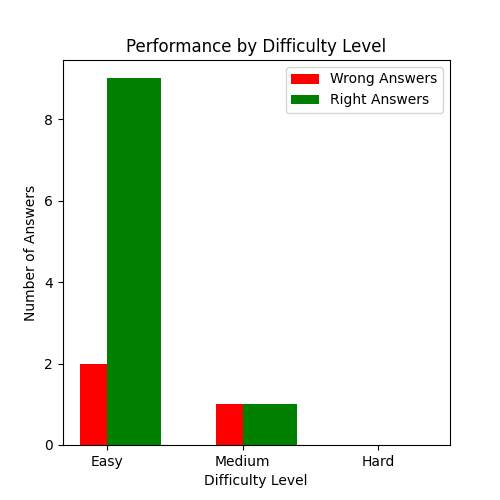
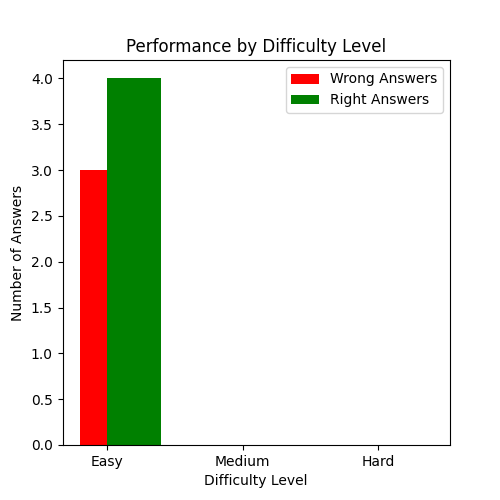
removed unncecessary statements

diff --git a/templates/subject_form.html b/templates/subject_form.html
@@ -85,17 +85,6 @@
      <div class="formclass">
          <h2>Enter Test Name</h2>
          <form action="{{ url_for('submit_subject') }}" method="post">
-             <!-- <select name="subject_name" id="subject">
-                 <option value="" disabled selected>Select your subject</option>
-                 <option value="mathematics">Mathematics</option>
-                 <option value="science">Science</option>
-                 <option value="history">History</option>
-                 <option value="english">English</option>
-                 <option value="geography">Geography</option> -->
-                 <!-- Add more subjects as needed -->
-             <!-- </select><br>
-             <br>
-             <br> -->
              <div class="inner-inputs">
                 <label for="teacher_name">Teacher name:</label>
              <input type="text" id="teacher_name" name="teacher_name">

diff --git a/app.py b/app.py
@@ -31,7 +31,7 @@ llm = Fireworks(
 )
 
 
-
+#Create a connection to the MySQL database
 def create_connection():
     try:
         connection = mysql.connector.connect(
@@ -41,14 +41,12 @@ def create_connection():
             database=app.config['MYSQL_DB']
         )
         if connection.is_connected():
-            print("Connection to MySQL established successfully.")
             return connection
     except Error as e:
-        print(f"Error: {e}")
         return None
 
 
-
+# Check if a table exists in the database
 def table_exists(connection, table_name):
     cursor = connection.cursor()
     cursor.execute("SHOW TABLES LIKE %s", (table_name,))
@@ -58,8 +56,9 @@ def table_exists(connection, table_name):
 
 
 
-# home page
+# Home page
 
+# To know the role of the user
 @app.route('/')
 def role_selection():
     return render_template('role_selection.html')
@@ -76,15 +75,16 @@ def role_redirect():
     
 
 
-# Teacher operations.......
+# Teacher operations
 
 
-
+# Display the form to input the custom test and teacher details
 @app.route('/subject_form')
 def subject_form():
     return render_template('subject_form.html')
 
 
+# It will submit the test details and redirect to the question form
 @app.route('/submit', methods=['POST'])
 def submit_subject():
     test_name = request.form['test_name']
@@ -120,17 +120,21 @@ def submit_subject():
 
             return redirect(url_for('question_form', test_id=test_id, test_name=test_name))
         except Error as e:
-            print(f"Error: {e}")
+            return jsonify({"error": "Error occured on submitting the test."}), 400
         finally:
             cursor.close()
             connection.close()
 
+
+# Display the form to input the questions
 @app.route('/question_form')
 def question_form():
     test_name = request.args.get('test_name')
     test_id = request.args.get('test_id')
     return render_template('question_form.html', test_id=test_id, test_name = test_name)
 
+
+# Submit the questions and redirect to the question form
 @app.route('/submit_question', methods=['GET','POST'])
 def submit_question():
     question = request.form['question']
@@ -142,7 +146,6 @@ def submit_question():
     tag = request.form['tag']
     test_id = request.args.get('test_id')
 
-    print(f"Submitted test_id: {test_id}")
 
     connection = create_connection()
     if connection:
@@ -153,9 +156,9 @@ def submit_question():
                 (question, option1, option2, option3, option4, correct_option, tag, test_id)
             )
             connection.commit()
-            print("Question data inserted successfully.")
+            # print("Question data inserted successfully.")
         except Error as e:
-            print(f"Error: {e}")
+            return jsonify({"error": "Error occured on submitting the Question."}), 400
         finally:
             cursor.close()
             connection.close()
@@ -163,17 +166,21 @@ def submit_question():
     return redirect(url_for('question_form', test_id=test_id))
 
 
+# Finish the test creation process
 @app.route('/finish', methods=['POST'])
 def finish():
     return redirect(url_for('role_selection'))
 
 
-# Student operations....
+# Student operations
 
+# Display the form to input the test name
 @app.route('/subject_input')
 def subject_input():
     return render_template('subject_input.html')
 
+
+# To know No.of questions available in the test
 @app.route('/student_quiz', methods=['GET'])
 def student_quiz():
     Test_name = request.args.get('Test_name')
@@ -189,22 +196,20 @@ def student_quiz():
         else:
             Total_questions = Total_questions['Number_of_questions']
 
-    print(Test_name)
-    print(Total_questions)
     return redirect(url_for('index',Test_name=Test_name, Total_questions=Total_questions))
 
 
-
+# Return the Total number of questions and test name of the test
 @app.route('/index')
 def index():
     Test_name = request.args.get('Test_name')
     Total_questions = request.args.get('Total_questions')
-    print(Test_name,"Index file")
+
 
     return render_template('index.html', Test_name=Test_name, Total_questions=Total_questions)
 
 
-
+# Display the questions to the student by fetching from the database
 @app.route('/questions', methods=['GET'])
 def get_questions():
     test_name = request.args.get('Test_name')
@@ -257,6 +262,7 @@ def get_questions():
 
 # Results......
 
+# calculate the results and generate the feedback
 @app.route('/submit_results', methods=['POST'])
 def submit_results():
     data = request.json
@@ -282,7 +288,6 @@ def submit_results():
     ax.legend()
 
     save_folder = os.path.join(os.getcwd(), 'static', 'images')
-    os.makedirs(save_folder, exist_ok=True)  # Create the folder if it doesn't exist
     save_path = os.path.join(save_folder, 'performance_graph.png')
 
     # Save the graph to the specified folder
